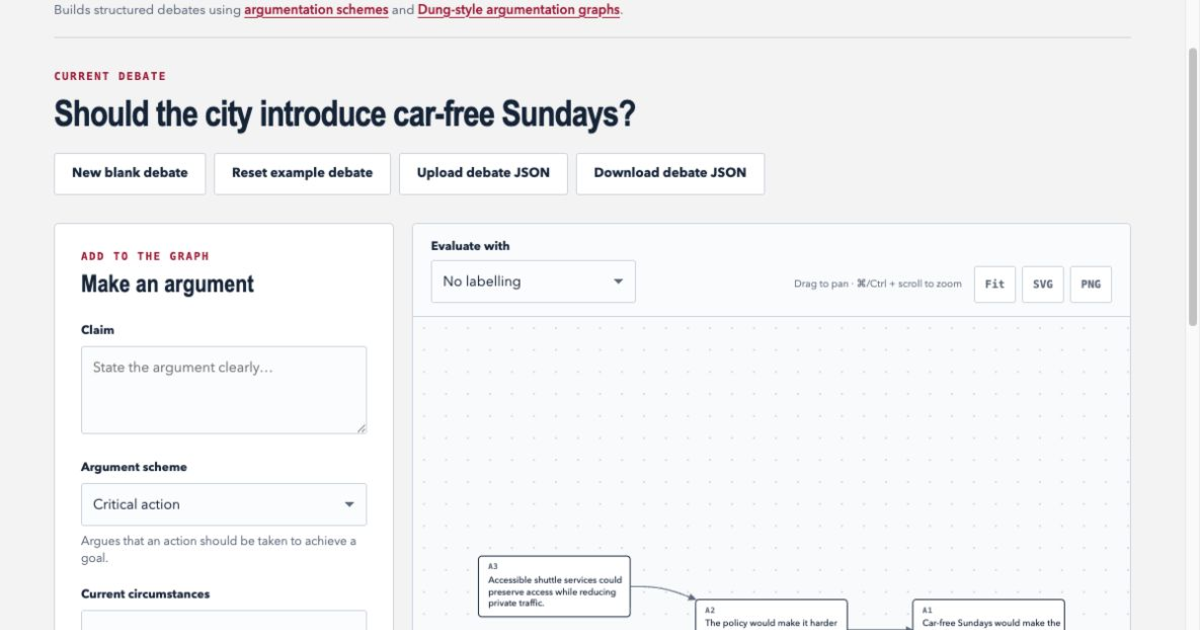
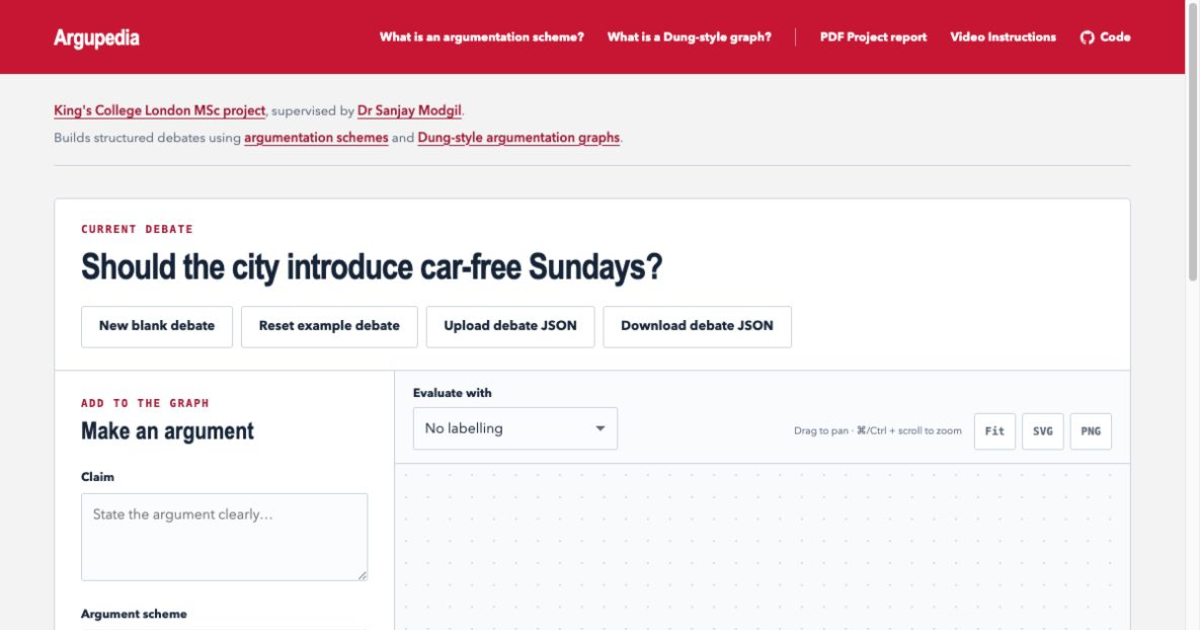
Unify the debate workspace

diff --git a/index.html b/index.html
@@ -40,21 +40,22 @@
           <p><a href="https://www.kcl.ac.uk/study/postgraduate-taught/courses/advanced-computing-msc">King's College London MSc project</a>, supervised by <a href="https://www.kcl.ac.uk/people/sanjay-modgil/">Dr Sanjay Modgil</a>.</p>
           <p>Builds structured debates using <a href="#argumentation-schemes">argumentation schemes</a> and <a href="#dung-graphs">Dung-style argumentation graphs</a>.</p>
         </div>
-        <div class="workspace-header">
-          <div>
-            <p class="section-label">Current debate</p>
-            <h2 id="workspace-title" contenteditable="true" spellcheck="true" aria-label="Debate title"></h2>
+        <div class="debate-console">
+          <div class="workspace-header">
+            <div>
+              <p class="section-label">Current debate</p>
+              <h2 id="workspace-title" contenteditable="true" spellcheck="true" aria-label="Debate title"></h2>
+            </div>
+            <div class="file-actions" aria-label="Debate file controls">
+              <button class="button button-quiet" id="new-debate" type="button" title="Clear the workspace and start a blank debate">New blank debate</button>
+              <button class="button button-quiet" id="reset-debate" type="button" title="Restore the original example debate">Reset example debate</button>
+              <button class="button button-quiet" id="import-debate" type="button" title="Open an editable debate from a JSON file">Upload debate JSON</button>
+              <button class="button button-quiet" id="export-debate" type="button" title="Save this editable debate as a JSON file">Download debate JSON</button>
+              <input id="debate-file" type="file" accept="application/json,.json" hidden />
+            </div>
           </div>
-          <div class="file-actions" aria-label="Debate file controls">
-            <button class="button button-quiet" id="new-debate" type="button" title="Clear the workspace and start a blank debate">New blank debate</button>
-            <button class="button button-quiet" id="reset-debate" type="button" title="Restore the original example debate">Reset example debate</button>
-            <button class="button button-quiet" id="import-debate" type="button" title="Open an editable debate from a JSON file">Upload debate JSON</button>
-            <button class="button button-quiet" id="export-debate" type="button" title="Save this editable debate as a JSON file">Download debate JSON</button>
-            <input id="debate-file" type="file" accept="application/json,.json" hidden />
-          </div>
-        </div>
 
-        <div class="workspace-grid">
+          <div class="workspace-grid">
           <aside class="composer" aria-labelledby="composer-title">
             <div class="panel-heading">
               <p class="section-label">Add to the graph</p>
@@ -131,18 +132,19 @@
               <p id="result-copy">Choose a semantics to evaluate the framework.</p>
             </div>
           </div>
-        </div>
-
-        <section class="argument-list-section" aria-labelledby="argument-list-title">
-          <div class="panel-heading inline-heading">
-            <div>
-              <p class="section-label">Underlying debate</p>
-              <h3 id="argument-list-title">Arguments</h3>
-            </div>
-            <span id="argument-count"></span>
           </div>
-          <ol class="argument-list" id="argument-list"></ol>
-        </section>
+
+          <section class="argument-list-section" aria-labelledby="argument-list-title">
+            <div class="panel-heading inline-heading">
+              <div>
+                <p class="section-label">Underlying debate</p>
+                <h3 id="argument-list-title">Arguments</h3>
+              </div>
+              <span id="argument-count"></span>
+            </div>
+            <ol class="argument-list" id="argument-list"></ol>
+          </section>
+        </div>
 
         <section class="concept-notes" aria-label="Argumentation concepts">
           <article id="argumentation-schemes">

diff --git a/src/styles.css b/src/styles.css
@@ -51,14 +51,16 @@ a:hover { color: var(--red); }
 .project-context p { margin: 0; }
 .project-context p + p { margin-top: 7px; }
 .project-context a { font-weight: 600; }
-.workspace-header { display: flex; align-items: flex-start; flex-direction: column; gap: 18px; margin-bottom: 28px; }
+.debate-console { background: var(--white); border: 1px solid var(--line); border-radius: 5px; overflow: hidden; }
+.workspace-header { display: flex; align-items: flex-start; flex-direction: column; gap: 18px; padding: 24px 26px 22px; border-bottom: 1px solid var(--line); background: var(--white); }
 .workspace-header .section-label { margin-bottom: 10px; }
 #workspace-title { min-width: 260px; margin: 0; font: 750 clamp(27px, 3vw, 42px)/1.12 var(--display); letter-spacing: -.025em; border-bottom: 1px dashed transparent; }
 #workspace-title:hover, #workspace-title:focus { border-bottom-color: var(--line); }
 .file-actions { display: flex; flex-wrap: wrap; justify-content: flex-start; gap: 8px; }
-.workspace-grid { display: grid; grid-template-columns: minmax(265px, 340px) minmax(0, 1fr); gap: 18px; align-items: stretch; }
-.composer, .graph-panel, .argument-list-section { background: var(--white); border: 1px solid var(--line); border-radius: 5px; }
+.workspace-grid { display: grid; grid-template-columns: minmax(265px, 340px) minmax(0, 1fr); gap: 0; align-items: stretch; }
+.composer, .graph-panel, .argument-list-section { background: var(--white); }
 .composer { padding: 26px; }
+.composer { border-right: 1px solid var(--line); }
 .panel-heading h3 { margin: 0 0 24px; font: 750 24px/1.1 var(--display); }
 .panel-heading .section-label { margin-bottom: 8px; }
 label { display: block; color: var(--ink); font-size: 12px; font-weight: 700; margin: 17px 0 7px; }
@@ -102,7 +104,7 @@ select { appearance: none; background-image: linear-gradient(45deg,transparent 5
 .status-in { background: var(--accepted); }.status-out { background: var(--rejected); }.status-undec { background: var(--undecided); }
 #result-copy { margin: 9px 0 0; color: var(--ink); font-size: 13px; }
 
-.argument-list-section { margin-top: 18px; padding: 25px 28px; }
+.argument-list-section { padding: 25px 28px; border-top: 1px solid var(--line); }
 .inline-heading { display: flex; justify-content: space-between; align-items: end; border-bottom: 1px solid var(--line); padding-bottom: 15px; }
 .inline-heading h3 { margin: 0; }
 #argument-count { color: var(--muted); font: 600 11px var(--mono); text-transform: uppercase; letter-spacing: .08em; }
@@ -132,6 +134,7 @@ select { appearance: none; background-image: linear-gradient(45deg,transparent 5
   .workspace-grid { grid-template-columns: 1fr; }
   .composer { order: 2; }
   .graph-panel { order: 1; min-height: 600px; }
+  .composer { border-top: 1px solid var(--line); border-right: 0; }
 }
 
 @media (max-width: 620px) {
@@ -141,8 +144,8 @@ select { appearance: none; background-image: linear-gradient(45deg,transparent 5
   .workspace { padding-top: 20px; }
   .project-context { margin-bottom: 24px; font-size: 12px; }
   .workspace-header { align-items: flex-start; flex-direction: column; }
-  .file-actions { justify-content: flex-start; }
-  .file-actions .button { padding: 9px 11px; }
+  .file-actions { display: grid; grid-template-columns: repeat(2, minmax(0, 1fr)); width: 100%; }
+  .file-actions .button { width: 100%; padding: 9px 8px; font-size: 11px; }
   .graph-panel { min-height: 550px; grid-template-rows: auto minmax(420px, 1fr) auto; }
   .graph-toolbar { align-items: stretch; flex-wrap: wrap; }
   .semantics-control { width: calc(65% - 8px); }
